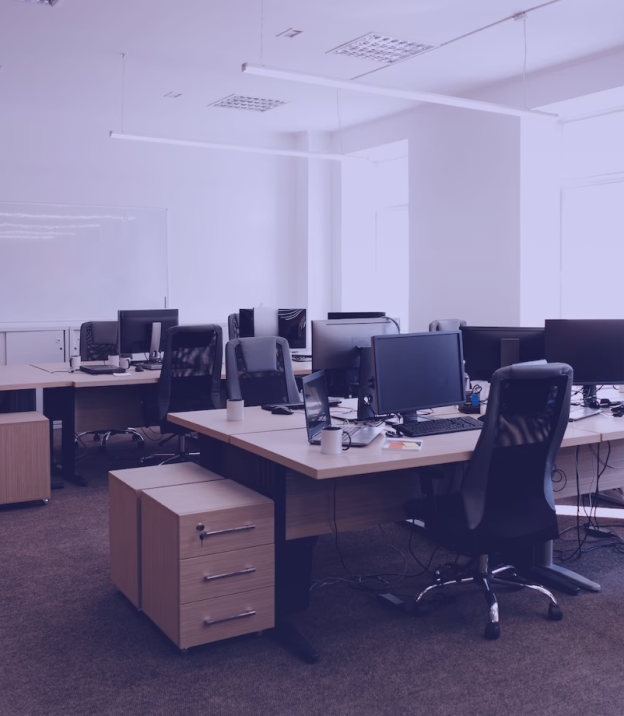
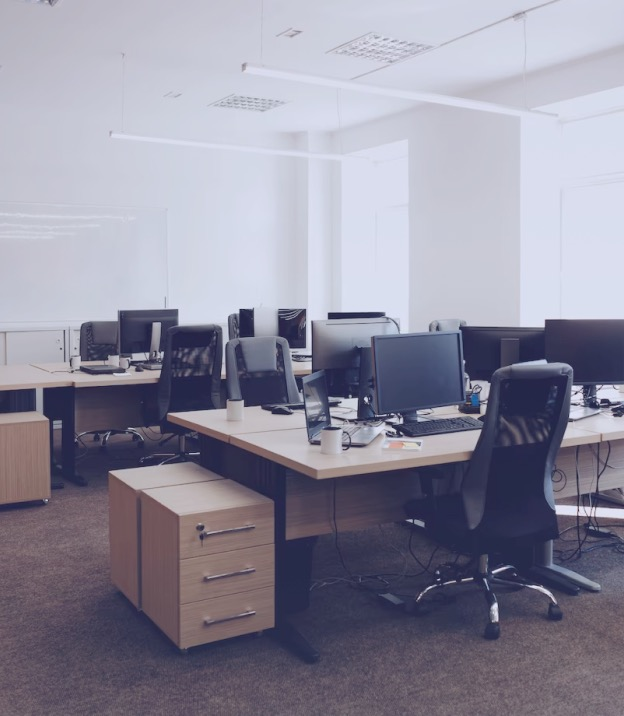
new footer + new image for contact us form

diff --git a/src/app/(home)/page.tsx b/src/app/(home)/page.tsx
@@ -307,6 +307,78 @@ const HomePage = () => {
             </div>
           </div>
         </section>
+
+        <section className="bg-white">
+            <div className="max-w-screen-xl px-4 py-12 mx-auto space-y-8 overflow-hidden sm:px-6 lg:px-8">
+                <nav className="flex flex-wrap justify-center -mx-5 -my-2">
+                    <div className="px-5 py-2">
+                        <a href="#" className="text-base leading-6 text-gray-500 hover:text-gray-900">
+                            About
+                        </a>
+                    </div>
+                    <div className="px-5 py-2">
+                        <a href="#" className="text-base leading-6 text-gray-500 hover:text-gray-900">
+                            Blog
+                        </a>
+                    </div>
+                    <div className="px-5 py-2">
+                        <a href="#" className="text-base leading-6 text-gray-500 hover:text-gray-900">
+                            Team
+                        </a>
+                    </div>
+                    <div className="px-5 py-2">
+                        <a href="#" className="text-base leading-6 text-gray-500 hover:text-gray-900">
+                            Pricing
+                        </a>
+                    </div>
+                    <div className="px-5 py-2">
+                        <a href="#" className="text-base leading-6 text-gray-500 hover:text-gray-900">
+                            Contact
+                        </a>
+                    </div>
+                    <div className="px-5 py-2">
+                        <a href="#" className="text-base leading-6 text-gray-500 hover:text-gray-900">
+                            Terms
+                        </a>
+                    </div>
+                </nav>
+                <div className="flex justify-center mt-8 space-x-6">
+                    <a href="#" className="text-gray-400 hover:text-gray-500">
+                        <span className="sr-only">Facebook</span>
+                        <svg className="w-6 h-6" aria-hidden="true" fill="currentColor" viewBox="0 0 24 24">
+                            <path fillRule="evenodd" d="M22 12c0-5.523-4.477-10-10-10S2 6.477 2 12c0 4.991 3.657 9.128 8.438 9.878v-6.987h-2.54V12h2.54V9.797c0-2.506 1.492-3.89 3.777-3.89 1.094 0 2.238.195 2.238.195v2.46h-1.26c-1.243 0-1.63.771-1.63 1.562V12h2.773l-.443 2.89h-2.33v6.988C18.343 21.128 22 16.991 22 12z" clip-rule="evenodd"></path>
+                        </svg>
+                    </a>
+                    <a href="#" className="text-gray-400 hover:text-gray-500">
+                        <span className="sr-only">Instagram</span>
+                        <svg className="w-6 h-6" aria-hidden="true" fill="currentColor" viewBox="0 0 24 24">
+                            <path fillRule="evenodd" d="M12.315 2c2.43 0 2.784.013 3.808.06 1.064.049 1.791.218 2.427.465a4.902 4.902 0 011.772 1.153 4.902 4.902 0 011.153 1.772c.247.636.416 1.363.465 2.427.048 1.067.06 1.407.06 4.123v.08c0 2.643-.012 2.987-.06 4.043-.049 1.064-.218 1.791-.465 2.427a4.902 4.902 0 01-1.153 1.772 4.902 4.902 0 01-1.772 1.153c-.636.247-1.363.416-2.427.465-1.067.048-1.407.06-4.123.06h-.08c-2.643 0-2.987-.012-4.043-.06-1.064-.049-1.791-.218-2.427-.465a4.902 4.902 0 01-1.772-1.153 4.902 4.902 0 01-1.153-1.772c-.247-.636-.416-1.363-.465-2.427-.047-1.024-.06-1.379-.06-3.808v-.63c0-2.43.013-2.784.06-3.808.049-1.064.218-1.791.465-2.427a4.902 4.902 0 011.153-1.772A4.902 4.902 0 015.45 2.525c.636-.247 1.363-.416 2.427-.465C8.901 2.013 9.256 2 11.685 2h.63zm-.081 1.802h-.468c-2.456 0-2.784.011-3.807.058-.975.045-1.504.207-1.857.344-.467.182-.8.398-1.15.748-.35.35-.566.683-.748 1.15-.137.353-.3.882-.344 1.857-.047 1.023-.058 1.351-.058 3.807v.468c0 2.456.011 2.784.058 3.807.045.975.207 1.504.344 1.857.182.466.399.8.748 1.15.35.35.683.566 1.15.748.353.137.882.3 1.857.344 1.054.048 1.37.058 4.041.058h.08c2.597 0 2.917-.01 3.96-.058.976-.045 1.505-.207 1.858-.344.466-.182.8-.398 1.15-.748.35-.35.566-.683.748-1.15.137-.353.3-.882.344-1.857.048-1.055.058-1.37.058-4.041v-.08c0-2.597-.01-2.917-.058-3.96-.045-.976-.207-1.505-.344-1.858a3.097 3.097 0 00-.748-1.15 3.098 3.098 0 00-1.15-.748c-.353-.137-.882-.3-1.857-.344-1.023-.047-1.351-.058-3.807-.058zM12 6.865a5.135 5.135 0 110 10.27 5.135 5.135 0 010-10.27zm0 1.802a3.333 3.333 0 100 6.666 3.333 3.333 0 000-6.666zm5.338-3.205a1.2 1.2 0 110 2.4 1.2 1.2 0 010-2.4z" clip-rule="evenodd"></path>
+                        </svg>
+                    </a>
+                    <a href="#" className="text-gray-400 hover:text-gray-500">
+                        <span className="sr-only">Twitter</span>
+                        <svg className="w-6 h-6" aria-hidden="true" fill="currentColor" viewBox="0 0 24 24">
+                            <path d="M8.29 20.251c7.547 0 11.675-6.253 11.675-11.675 0-.178 0-.355-.012-.53A8.348 8.348 0 0022 5.92a8.19 8.19 0 01-2.357.646 4.118 4.118 0 001.804-2.27 8.224 8.224 0 01-2.605.996 4.107 4.107 0 00-6.993 3.743 11.65 11.65 0 01-8.457-4.287 4.106 4.106 0 001.27 5.477A4.072 4.072 0 012.8 9.713v.052a4.105 4.105 0 003.292 4.022 4.095 4.095 0 01-1.853.07 4.108 4.108 0 003.834 2.85A8.233 8.233 0 012 18.407a11.616 11.616 0 006.29 1.84"></path>
+                        </svg>
+                    </a>
+                    <a href="#" className="text-gray-400 hover:text-gray-500">
+                        <span className="sr-only">GitHub</span>
+                        <svg className="w-6 h-6" aria-hidden="true" fill="currentColor" viewBox="0 0 24 24">
+                            <path fillRule="evenodd" d="M12 2C6.477 2 2 6.484 2 12.017c0 4.425 2.865 8.18 6.839 9.504.5.092.682-.217.682-.483 0-.237-.008-.868-.013-1.703-2.782.605-3.369-1.343-3.369-1.343-.454-1.158-1.11-1.466-1.11-1.466-.908-.62.069-.608.069-.608 1.003.07 1.531 1.032 1.531 1.032.892 1.53 2.341 1.088 2.91.832.092-.647.35-1.088.636-1.338-2.22-.253-4.555-1.113-4.555-4.951 0-1.093.39-1.988 1.029-2.688-.103-.253-.446-1.272.098-2.65 0 0 .84-.27 2.75 1.026A9.564 9.564 0 0112 6.844c.85.004 1.705.115 2.504.337 1.909-1.296 2.747-1.027 2.747-1.027.546 1.379.202 2.398.1 2.651.64.7 1.028 1.595 1.028 2.688 0 3.848-2.339 4.695-4.566 4.943.359.309.678.92.678 1.855 0 1.338-.012 2.419-.012 2.747 0 .268.18.58.688.482A10.019 10.019 0 0022 12.017C22 6.484 17.522 2 12 2z" clip-rule="evenodd"></path>
+                        </svg>
+                    </a>
+                    <a href="#" className="text-gray-400 hover:text-gray-500">
+                        <span className="sr-only">Dribbble</span>
+                        <svg className="w-6 h-6" aria-hidden="true" fill="currentColor" viewBox="0 0 24 24">
+                            <path fillRule="evenodd" d="M12 2C6.48 2 2 6.48 2 12s4.48 10 10 10c5.51 0 10-4.48 10-10S17.51 2 12 2zm6.605 4.61a8.502 8.502 0 011.93 5.314c-.281-.054-3.101-.629-5.943-.271-.065-.141-.12-.293-.184-.445a25.416 25.416 0 00-.564-1.236c3.145-1.28 4.577-3.124 4.761-3.362zM12 3.475c2.17 0 4.154.813 5.662 2.148-.152.216-1.443 1.941-4.48 3.08-1.399-2.57-2.95-4.675-3.189-5A8.687 8.687 0 0112 3.475zm-3.633.803a53.896 53.896 0 013.167 4.935c-3.992 1.063-7.517 1.04-7.896 1.04a8.581 8.581 0 014.729-5.975zM3.453 12.01v-.26c.37.01 4.512.065 8.775-1.215.25.477.477.965.694 1.453-.109.033-.228.065-.336.098-4.404 1.42-6.747 5.303-6.942 5.629a8.522 8.522 0 01-2.19-5.705zM12 20.547a8.482 8.482 0 01-5.239-1.8c.152-.315 1.888-3.656 6.703-5.337.022-.01.033-.01.054-.022a35.318 35.318 0 011.823 6.475 8.4 8.4 0 01-3.341.684zm4.761-1.465c-.086-.52-.542-3.015-1.659-6.084 2.679-.423 5.022.271 5.314.369a8.468 8.468 0 01-3.655 5.715z" clip-rule="evenodd"></path>
+                        </svg>
+                    </a>
+                </div>
+                <p className="mt-8 text-base leading-6 text-center text-gray-400">
+                    © Some Year Uktob, Inc. All rights reserved.
+                </p>
+            </div>
+        </section>
       </main >
     </div >
   )
